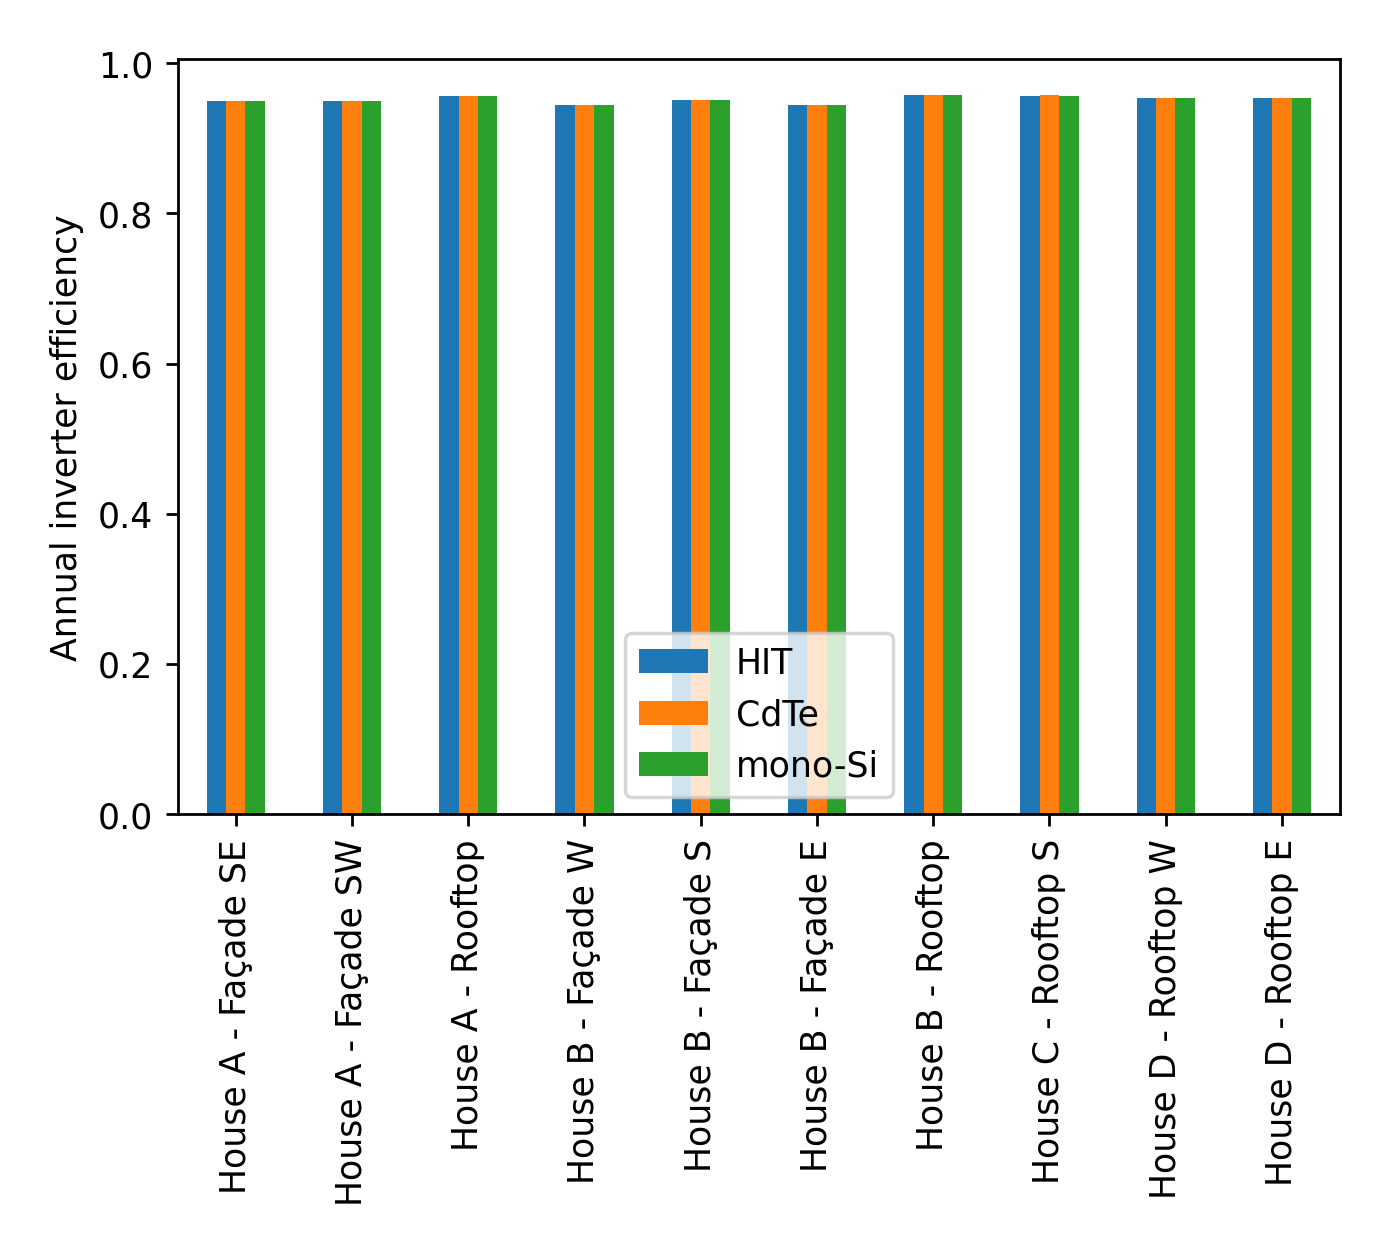
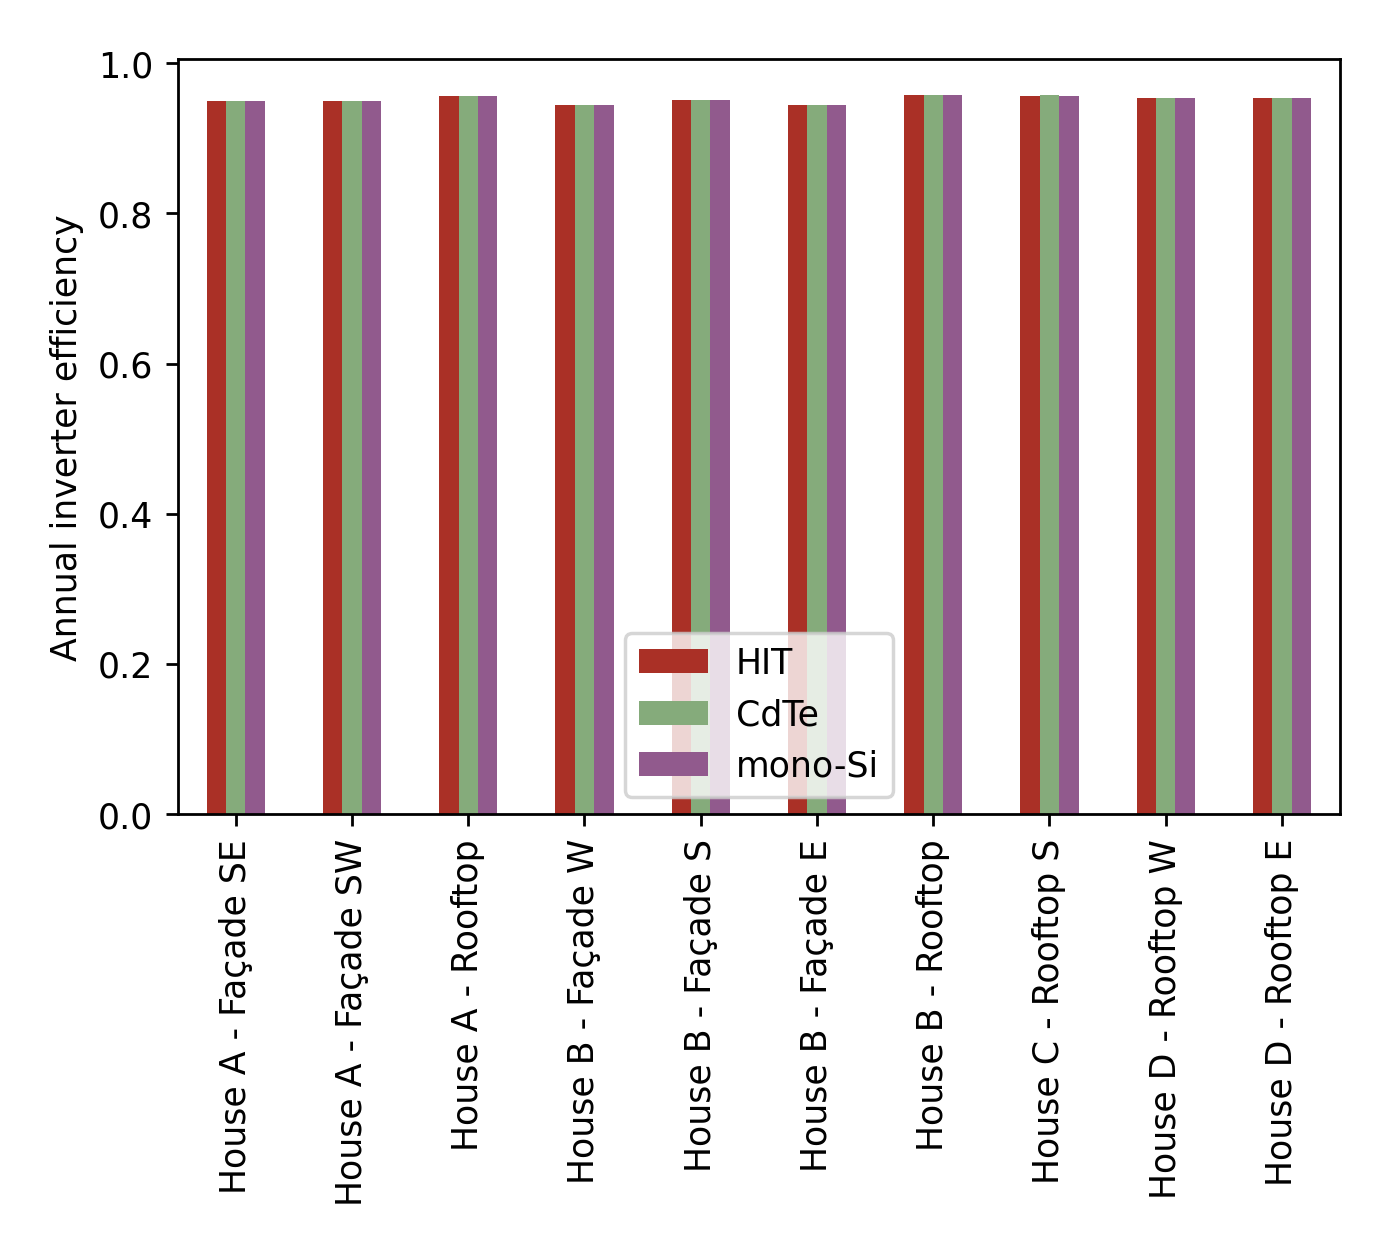
Update the colors in question 2 and 3

diff --git a/src/question2.py b/src/question2.py
@@ -14,10 +14,13 @@ This is done in four steps:
 """
 
 import pandas as pd
+import math
 import pvlib
 from matplotlib import pyplot as plt
 
 import utils
+
+COLORS = ['#aa3026', '#91723c', '#915a8d', '#85ab7b']
 
 
 def calculate_poa(tilt, azimuth, irradiance):
@@ -38,9 +41,11 @@ def calculate_poa(tilt, azimuth, irradiance):
     dni = irradiance.DNI
     ghi = irradiance.GHI
     dhi = irradiance.DHI
-    relative_airmass = pvlib.atmosphere.get_relative_airmass(irradiance.solar_apparent_zenith)
+    relative_airmass = pvlib.atmosphere.get_relative_airmass(
+        irradiance.solar_apparent_zenith)
 
-    poa = pvlib.irradiance.get_total_irradiance(tilt, azimuth, solar_zenith, solar_azimuth, dni, ghi, dhi, airmass=relative_airmass)
+    poa = pvlib.irradiance.get_total_irradiance(
+        tilt, azimuth, solar_zenith, solar_azimuth, dni, ghi, dhi, airmass=relative_airmass)
     return {
         'total': poa.poa_global.sum() / 1000,
         'diffuse': poa.poa_diffuse.sum() / 1000,
@@ -63,14 +68,16 @@ def find_best_orientation(irradiance, *, azimuths, tilts, plotname):
 
     # Loop over all the tilts and add a row with the total POA for each azimuth
     for tilt in tilts:
-        all_orientations.loc[tilt] = list(map(lambda azimuth: calculate_poa(tilt, azimuth, irradiance)['total'], azimuths))
+        all_orientations.loc[tilt] = list(map(lambda azimuth: calculate_poa(
+            tilt, azimuth, irradiance)['total'], azimuths))
 
     # Find and return the optimal azimuth and tilt in the DataFrame
     optimal_azimuth = all_orientations.max().idxmax()
     optimal_tilt = all_orientations[optimal_azimuth].idxmax()
 
     # Create and save the bar chart
-    fig = all_orientations.plot(kind='bar', xlabel='Tilt [deg]', ylabel='Total irradiance [$kWh/m^2 year$]')
+    fig = all_orientations.plot(
+        kind='bar', xlabel='Tilt [deg]', ylabel='Total irradiance [$kWh/m^2 year$]', color=COLORS)
     fig.legend(title='Azimuth [deg]', loc=4)
 
     max_value = all_orientations.loc[optimal_tilt, optimal_azimuth]
@@ -123,14 +130,19 @@ buildings = utils.files.open_json_file('../input/buildings.json')
 irradiance = utils.knmi.get_irradiance()
 
 # Find the best orientation for the panels on rooftop A and B
-orientation_rooftop_b = find_best_orientation(irradiance, plotname='rooftop_b', tilts=range(10, 45, 5), azimuths=[180])
-orientation_rooftop_a = find_best_orientation(irradiance, plotname='rooftop_a', tilts=range(10, 45, 5), azimuths=[135, 225])
-buildings['House A']['Rooftop'] = {**orientation_rooftop_a, 'area': 3000, 'coverage': 0.5}
-buildings['House B']['Rooftop'] = {**orientation_rooftop_b, 'area': 1500, 'coverage': 0.5}
+orientation_rooftop_b = find_best_orientation(
+    irradiance, plotname='rooftop_b', tilts=range(10, 45, 5), azimuths=[180])
+orientation_rooftop_a = find_best_orientation(
+    irradiance, plotname='rooftop_a', tilts=range(10, 45, 5), azimuths=[135, 225])
+buildings['House A']['Rooftop'] = {
+    **orientation_rooftop_a, 'area': 3000, 'coverage': 0.5}
+buildings['House B']['Rooftop'] = {
+    **orientation_rooftop_b, 'area': 1500, 'coverage': 0.5}
 
 # Calculate the POA for all facades and save the extended building info to a JSON file
 buildings = get_poa_all_facades(buildings, irradiance)
-utils.files.save_json_file(buildings, filepath='../output/question2/buildings.json')
+utils.files.save_json_file(
+    buildings, filepath='../output/question2/buildings.json')
 
 # Create a bar chart of the POA of all surfaces
 create_poa_bar_chart()

diff --git a/src/question3.py b/src/question3.py
@@ -30,6 +30,8 @@ import pandas as pd
 
 import utils
 
+COLORS = ['#aa3026', '#85ab7b', '#915a8d', '#91723c']
+
 
 def calculate_capacity(buildings):
     """
@@ -125,7 +127,7 @@ def create_bar_chart_for_all_modules(column, *, scale=1, filename, ylabel):
             facades_dataframe.loc[f'{building_name} - {facade_name}'] = list(
                 map(lambda module_name: facade[module_name][column] * scale, modules))
 
-    facades_dataframe.plot(kind='bar', ylabel=ylabel)
+    facades_dataframe.plot(kind='bar', ylabel=ylabel, color=COLORS)
     utils.plots.savefig(f'../output/question3/{filename}.png')
 
 
@@ -166,7 +168,7 @@ def create_bar_chart_per_building():
         buildings_dataframe.loc[f'{building_name}'] = annual_yield_building / 1000
 
     buildings_dataframe.plot(
-        kind='bar', ylabel='Total annual yield [$MWh_{ac} / year$]')
+        kind='bar', ylabel='Total annual yield [$MWh_{ac} / year$]', color=COLORS[0])
     utils.plots.savefig(
         f'../output/question4/total_annual_yield_ac_building.png')
 
@@ -203,8 +205,10 @@ def create_line_chart_for_day(dates):
             subplot.title.set_text(datetime.datetime.strptime(
                 date, '%Y-%m-%d').strftime('%B %d %Y'))
             subplot.xaxis.set_major_formatter(mdates.DateFormatter('%H:%M'))
-            for facade_name, facade in power_per_facade.items():
-                subplot.plot(facade, label=facade_name)
+            for facade_index, facade_name in enumerate(power_per_facade):
+                facade = power_per_facade[facade_name]
+                subplot.plot(facade, label=facade_name,
+                             color=COLORS[facade_index])
 
             # Add a legend to only the top subplot
             if (index == 0):
